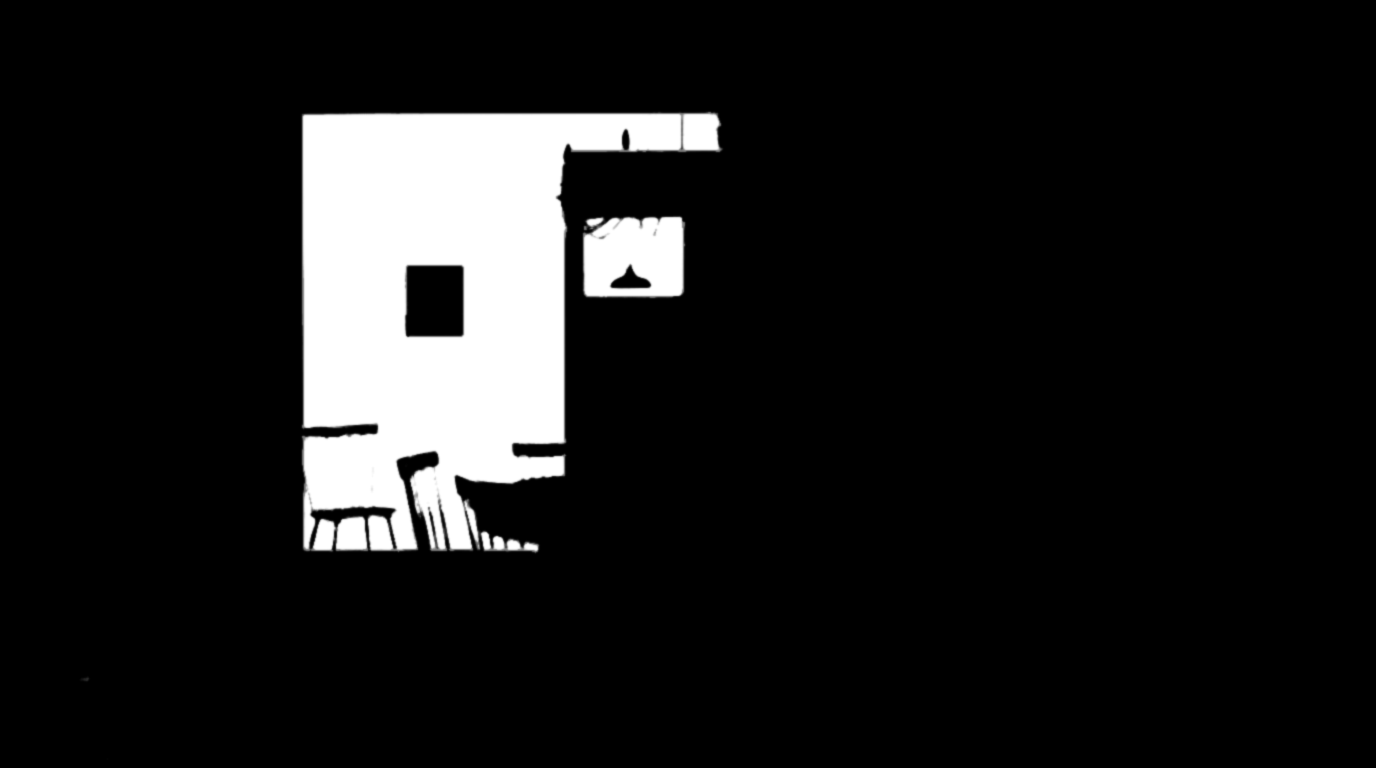
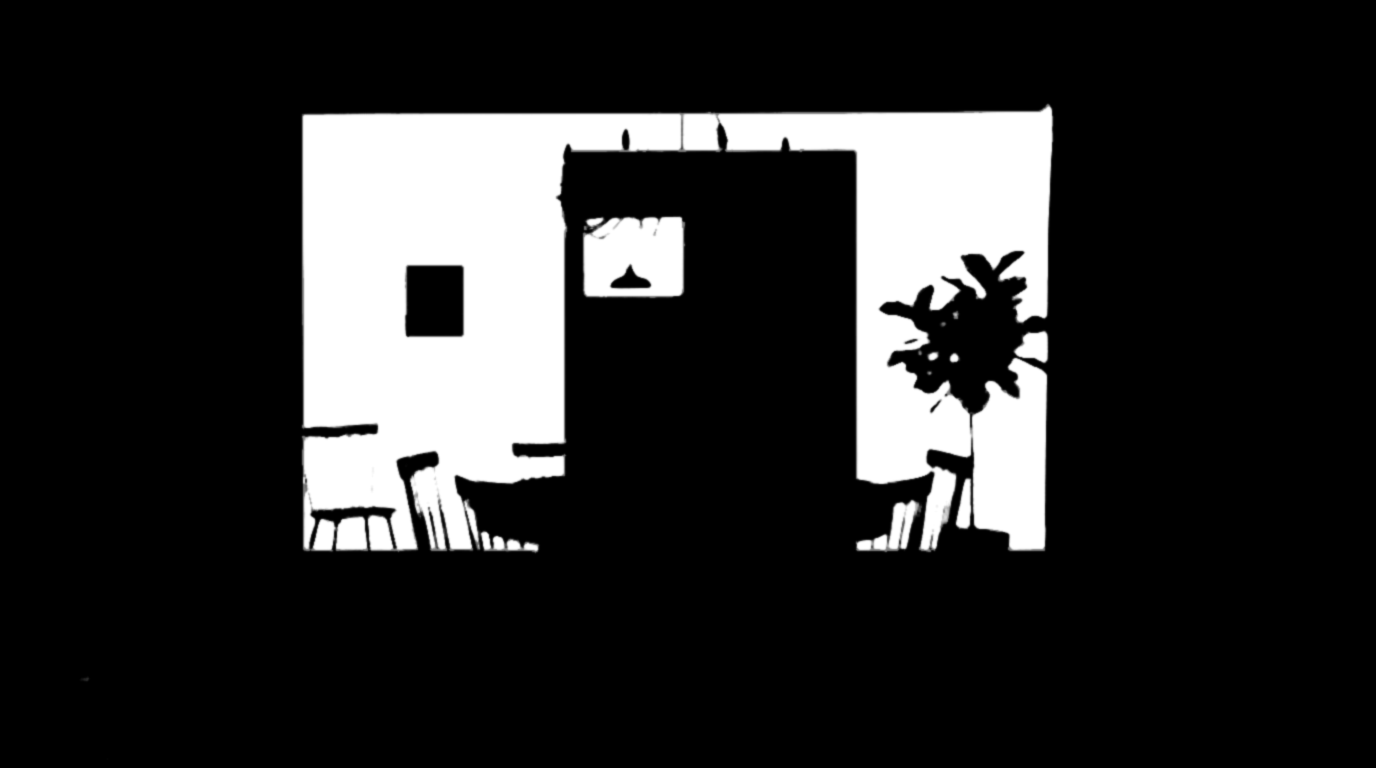
fix(visualizer): full back wall as accent in farmhouse dining; bump-out accent in farmhouse kitchen
The key pass split the dining room's back wall at the chandelier, so the
right half painted as the main color. The farmhouse kitchen's accent was the
narrow wall around the doorway; it is now the range bump-out (face, side
return and alcove), with the doorway wall back to main.

Adds meta.json "reassign" rules to build-room-masks.py: move one surface's
coverage to another inside a box drawn along the real wall corners.

Changed region(s): [[0.5, 0.125, 0.7812, 0.7188]]

diff --git a/scripts/build-room-masks.py b/scripts/build-room-masks.py
@@ -11,6 +11,7 @@ frames) and writes:
 
 Optional <dir>/exclude.json: [[x0, y0, x1, y1], ...] rectangles in base-image pixels
 that are never painted (e.g. another room seen through a doorway).
+Optional "reassign" rules in <dir>/meta.json move a surface to another inside a box.
 
 Coverage is soft: it scales with how saturated the key color is, so anti-aliased
 edges and walls seen through sheer curtains get partial paint instead of a hard cut.
@@ -92,6 +93,17 @@ if exclude_file.exists():
     for x0, y0, x1, y1 in json.loads(exclude_file.read_text()):
         keep[round(y0 * scale) : round(y1 * scale), round(x0 * scale) : round(x1 * scale)] = 0
 masks = [m * neutral * keep for m in (main, accent, trim, window)]
+
+# meta.json "reassign": [{"rect": [x0, y0, x1, y1], "from": "main", "to": "accent"}, ...]
+# moves one surface's coverage to another inside a box (base-image pixels). The key
+# pass sometimes splits one wall in two, e.g. where a chandelier crosses it, or picks a
+# less useful accent wall; drawing the box along the real wall corners fixes it.
+for rule in meta.get("reassign", []):
+    x0, y0, x1, y1 = (round(v * scale) for v in rule["rect"])
+    src, dst = SURFACES.index(rule["from"]), SURFACES.index(rule["to"])
+    box = (slice(y0, y1), slice(x0, x1))
+    masks[dst][box] = np.maximum(masks[dst][box], masks[src][box])
+    masks[src][box] = 0
 
 # Seams where two surfaces meet (wall corners, wall/trim joints). Only pixels lying
 # between two different surfaces are touched; an object edge borders a single
